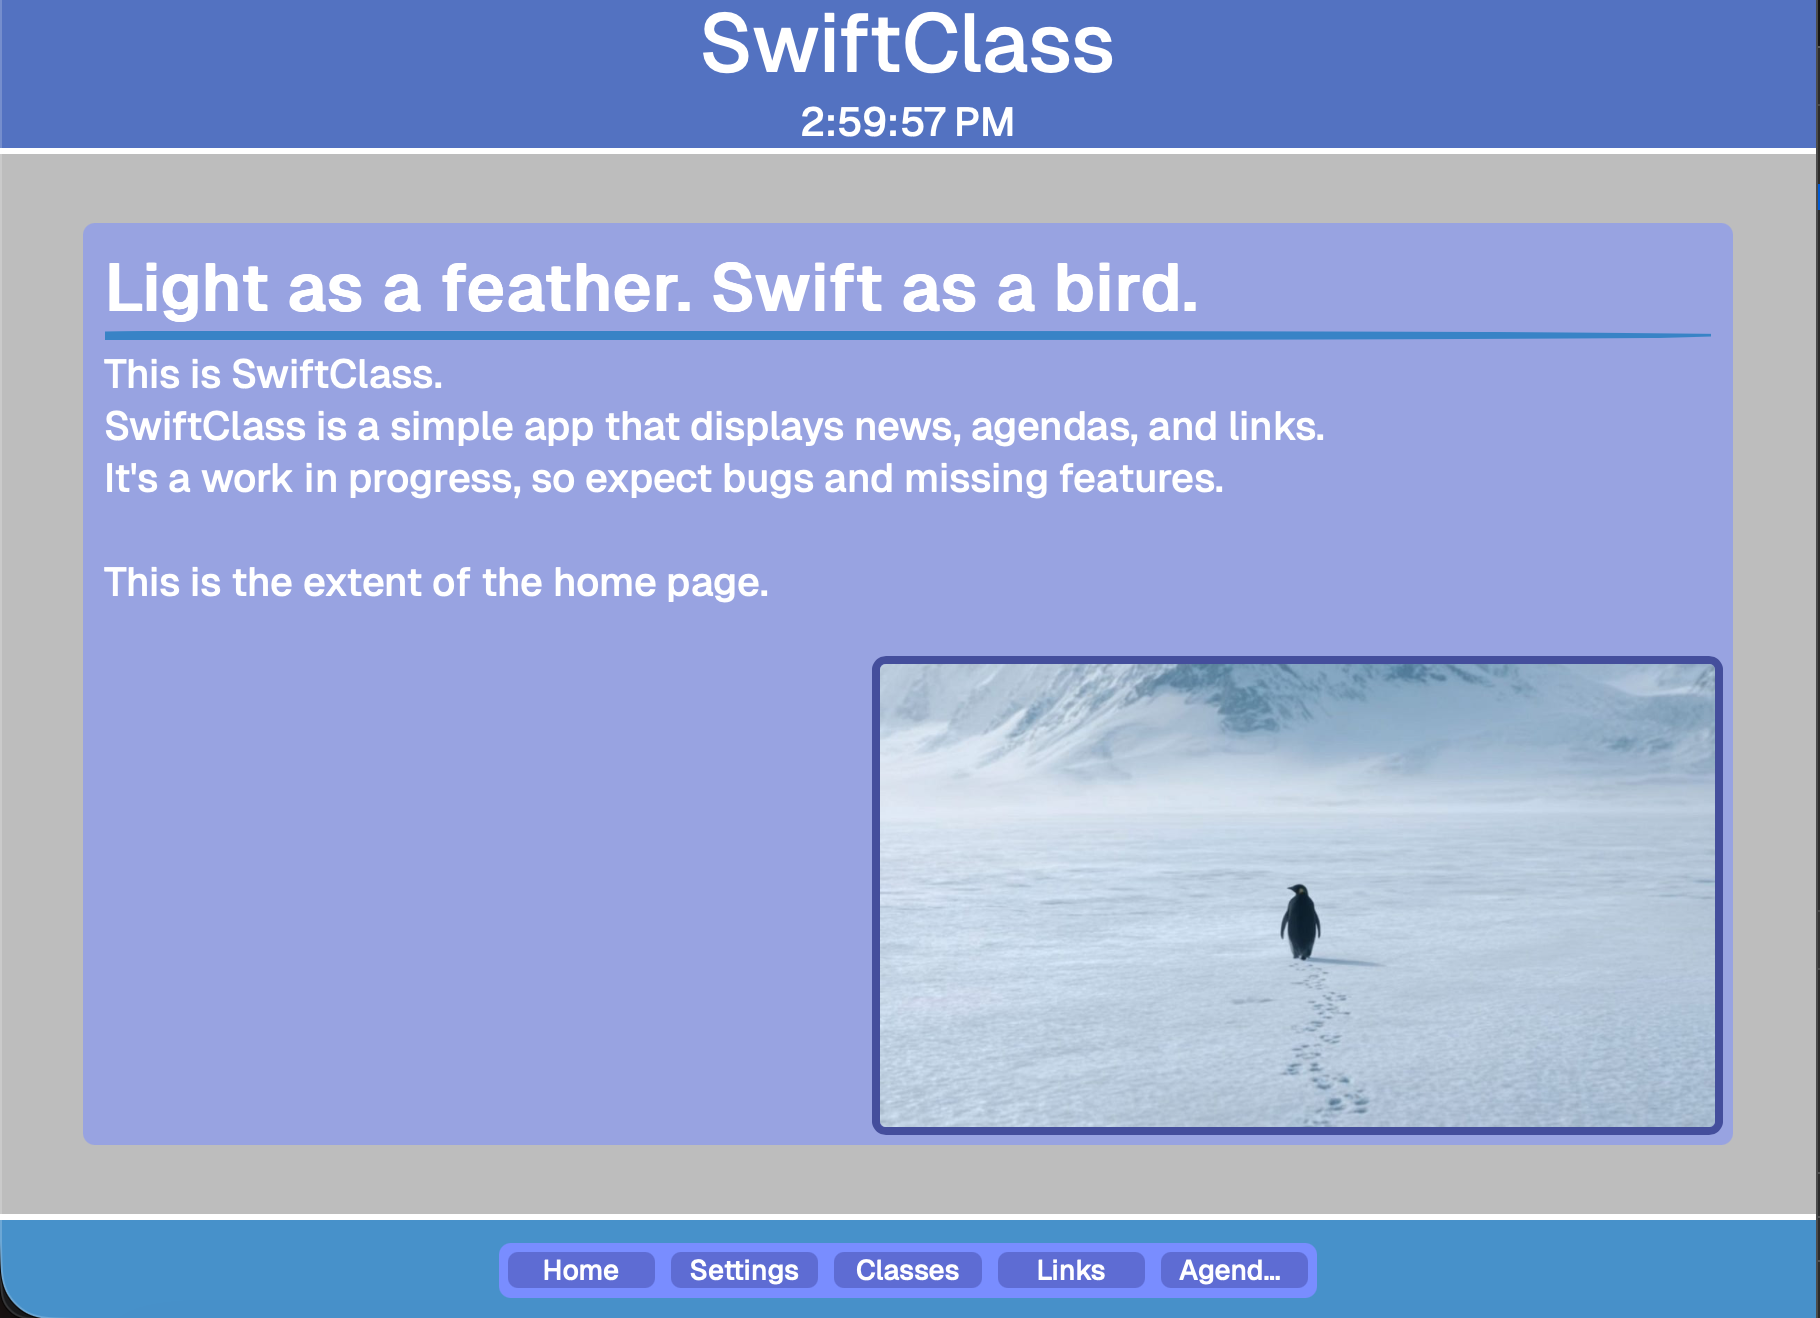
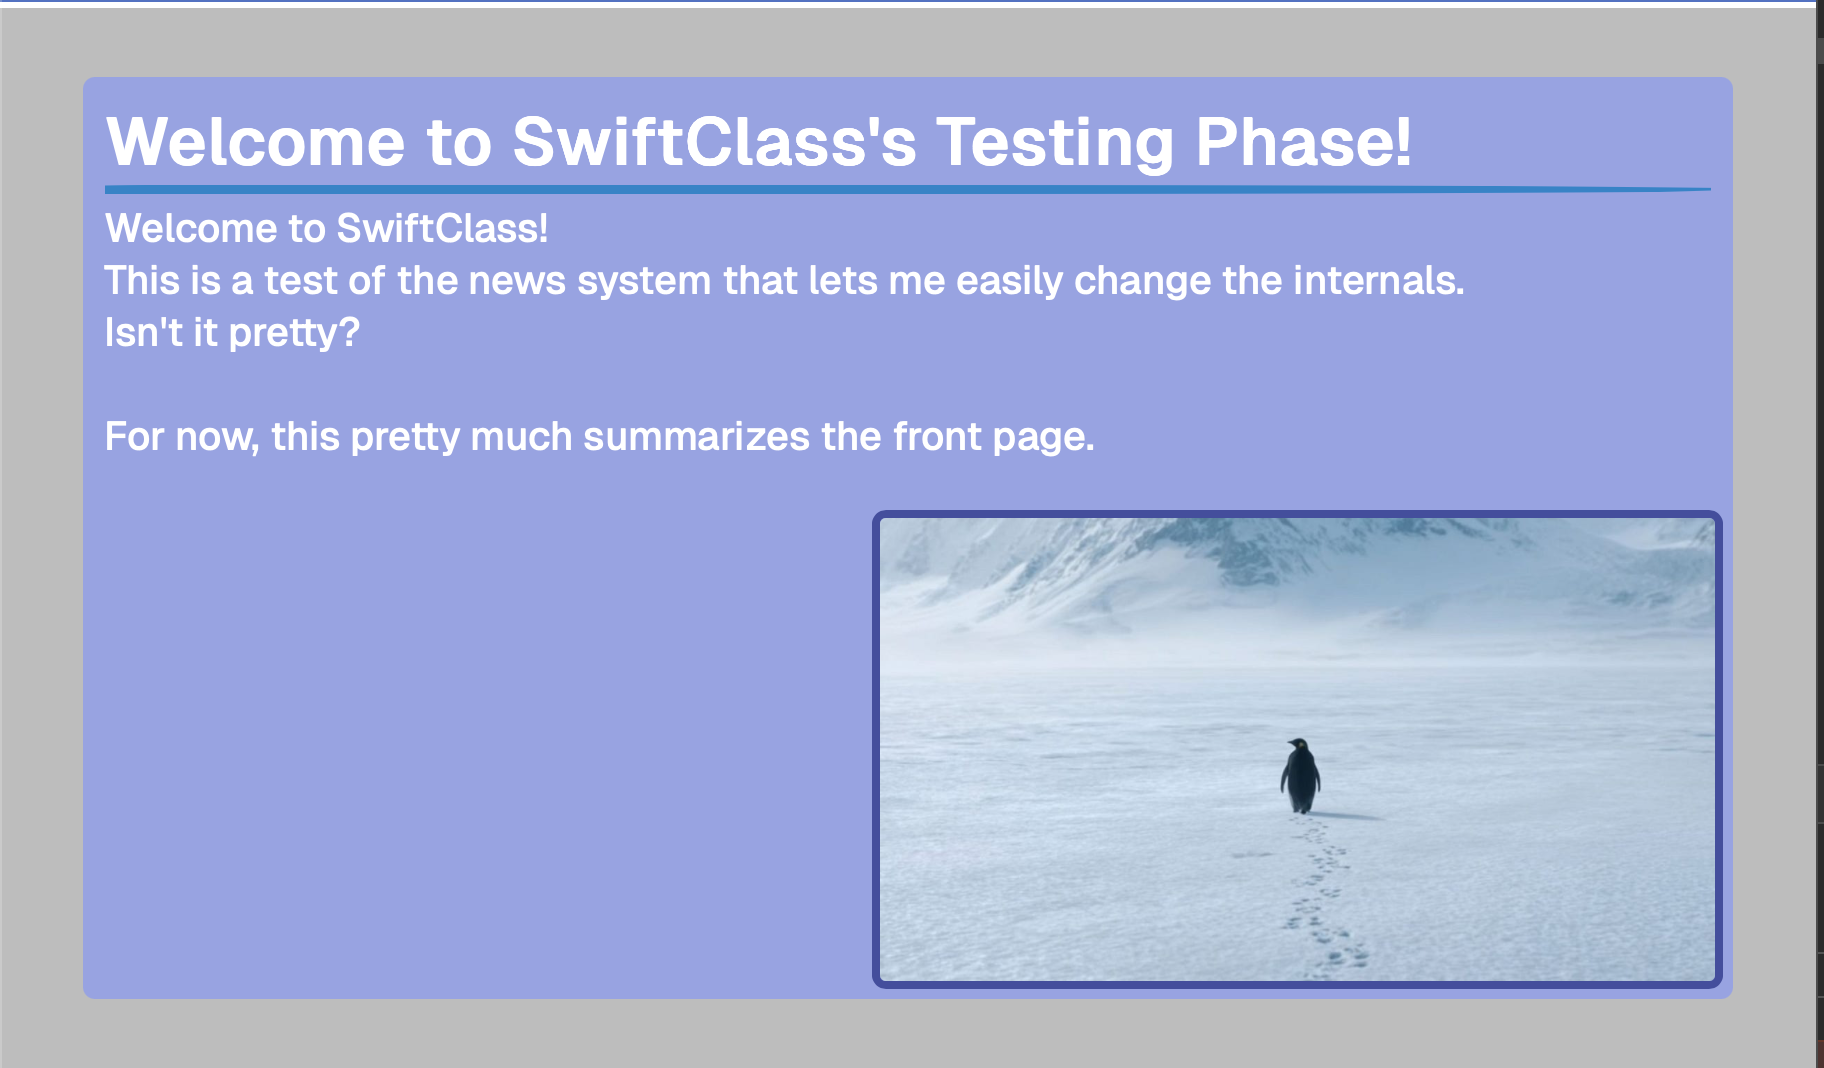
settings slideshow changes

diff --git a/Resources/info/infoSlides.js b/Resources/info/infoSlides.js
@@ -64,6 +64,7 @@ class InfoSlides{
 
         let backButton = document.createElement('button')
         backButton.classList.add('slidesButton')
+        backButton.id = "slidesBackButton"
         backButton.textContent = 'Previous'
         buttonContainer.appendChild(backButton)
 
@@ -71,11 +72,13 @@ class InfoSlides{
             if(this.slideNumber > 0){
                 this.slideNumber--
                 this.updateSlides()
+                document.getElementById('slidesNextButton').textContent = 'Next'
             }
         })
 
         let nextButton = document.createElement('button')
         nextButton.classList.add('slidesButton')
+        nextButton.id = "slidesNextButton"
         nextButton.textContent = 'Next'
         buttonContainer.appendChild(nextButton)
 
@@ -101,7 +104,8 @@ class InfoSlides{
 
         if(this.slides[this.slideNumber].image !== undefined){
             image.src = this.slides[this.slideNumber].image
-        }else{
+        }
+        else{
             image.src = 'Resources/info/images/default.png'
         }
 

diff --git a/Resources/info/infoSlides.css b/Resources/info/infoSlides.css
@@ -75,8 +75,9 @@
 }
 
 .slidesImage {
-    width: 50cqmin;
+    width: 65cqmin;
     aspect-ratio: 16/9;
     border-radius: 7px;
     margin-top: 1%;
+    border: 3px solid #696a8f;
 }